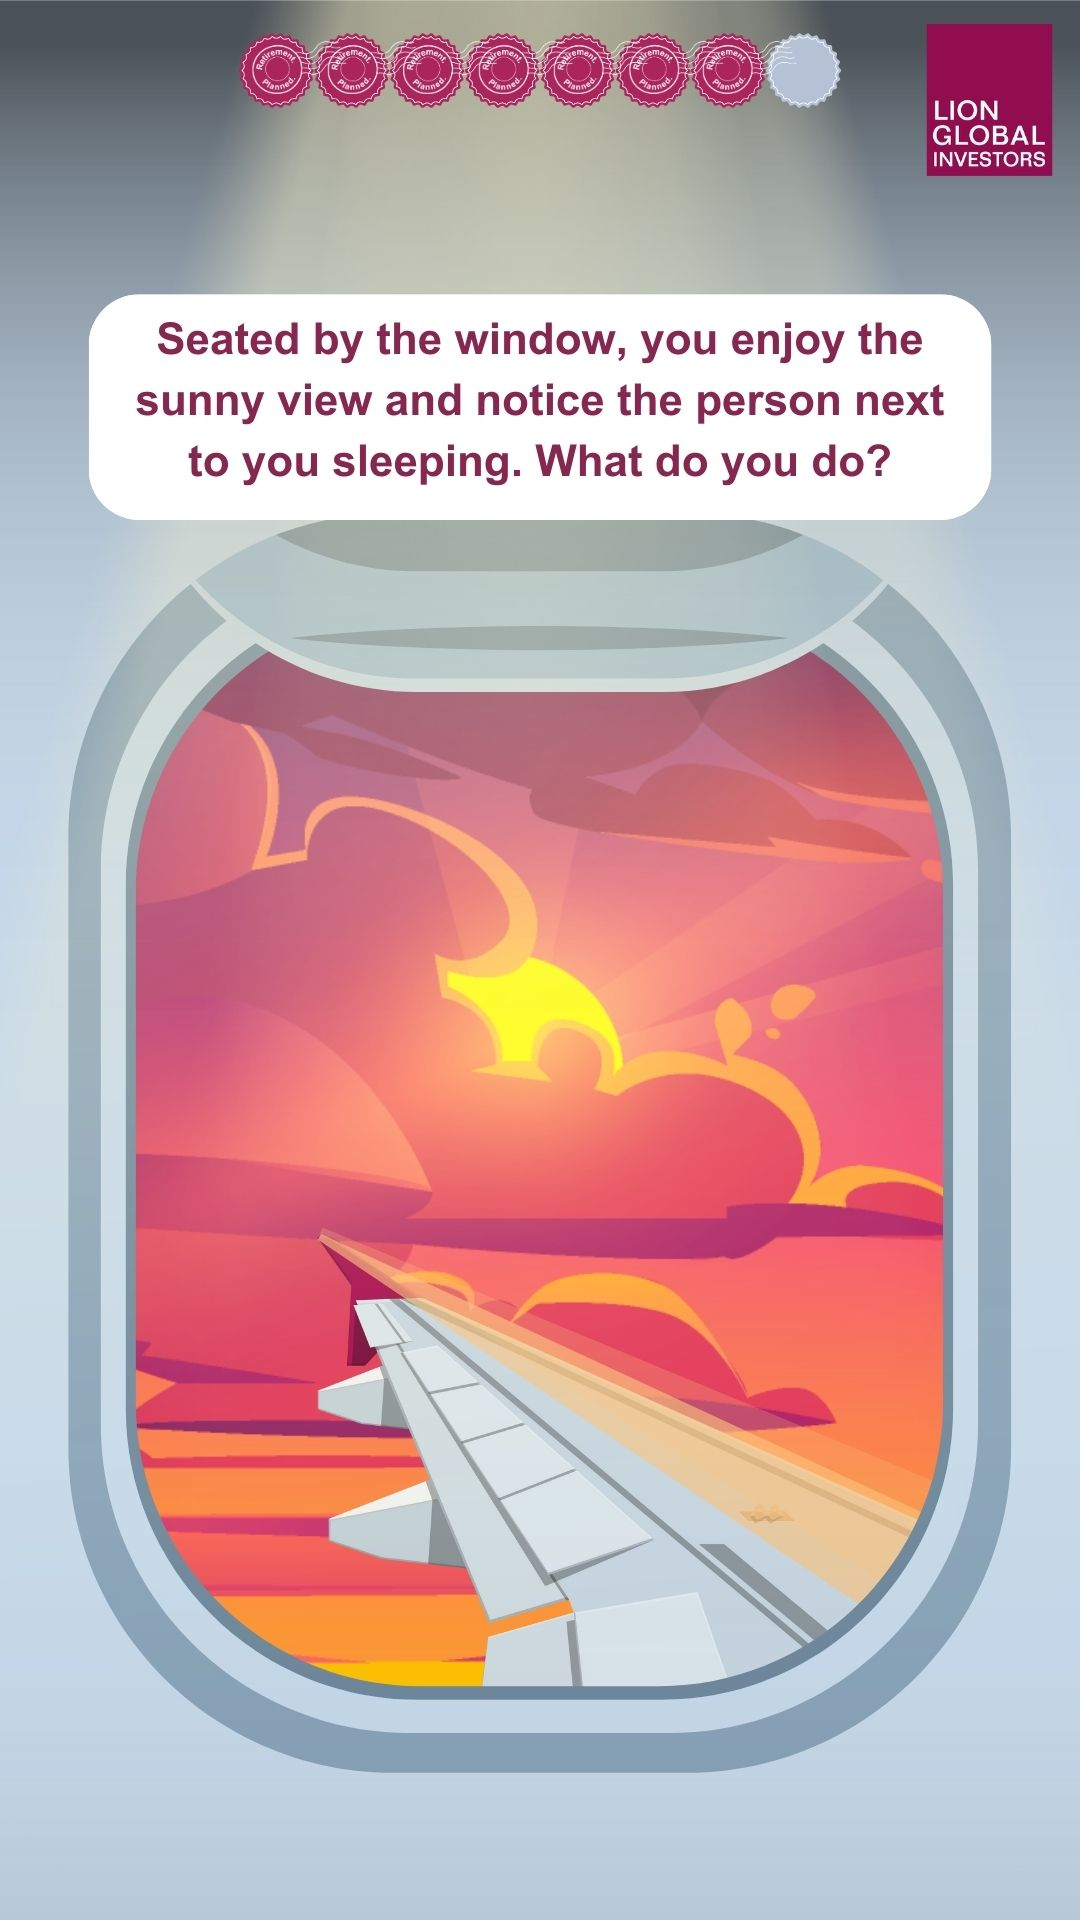
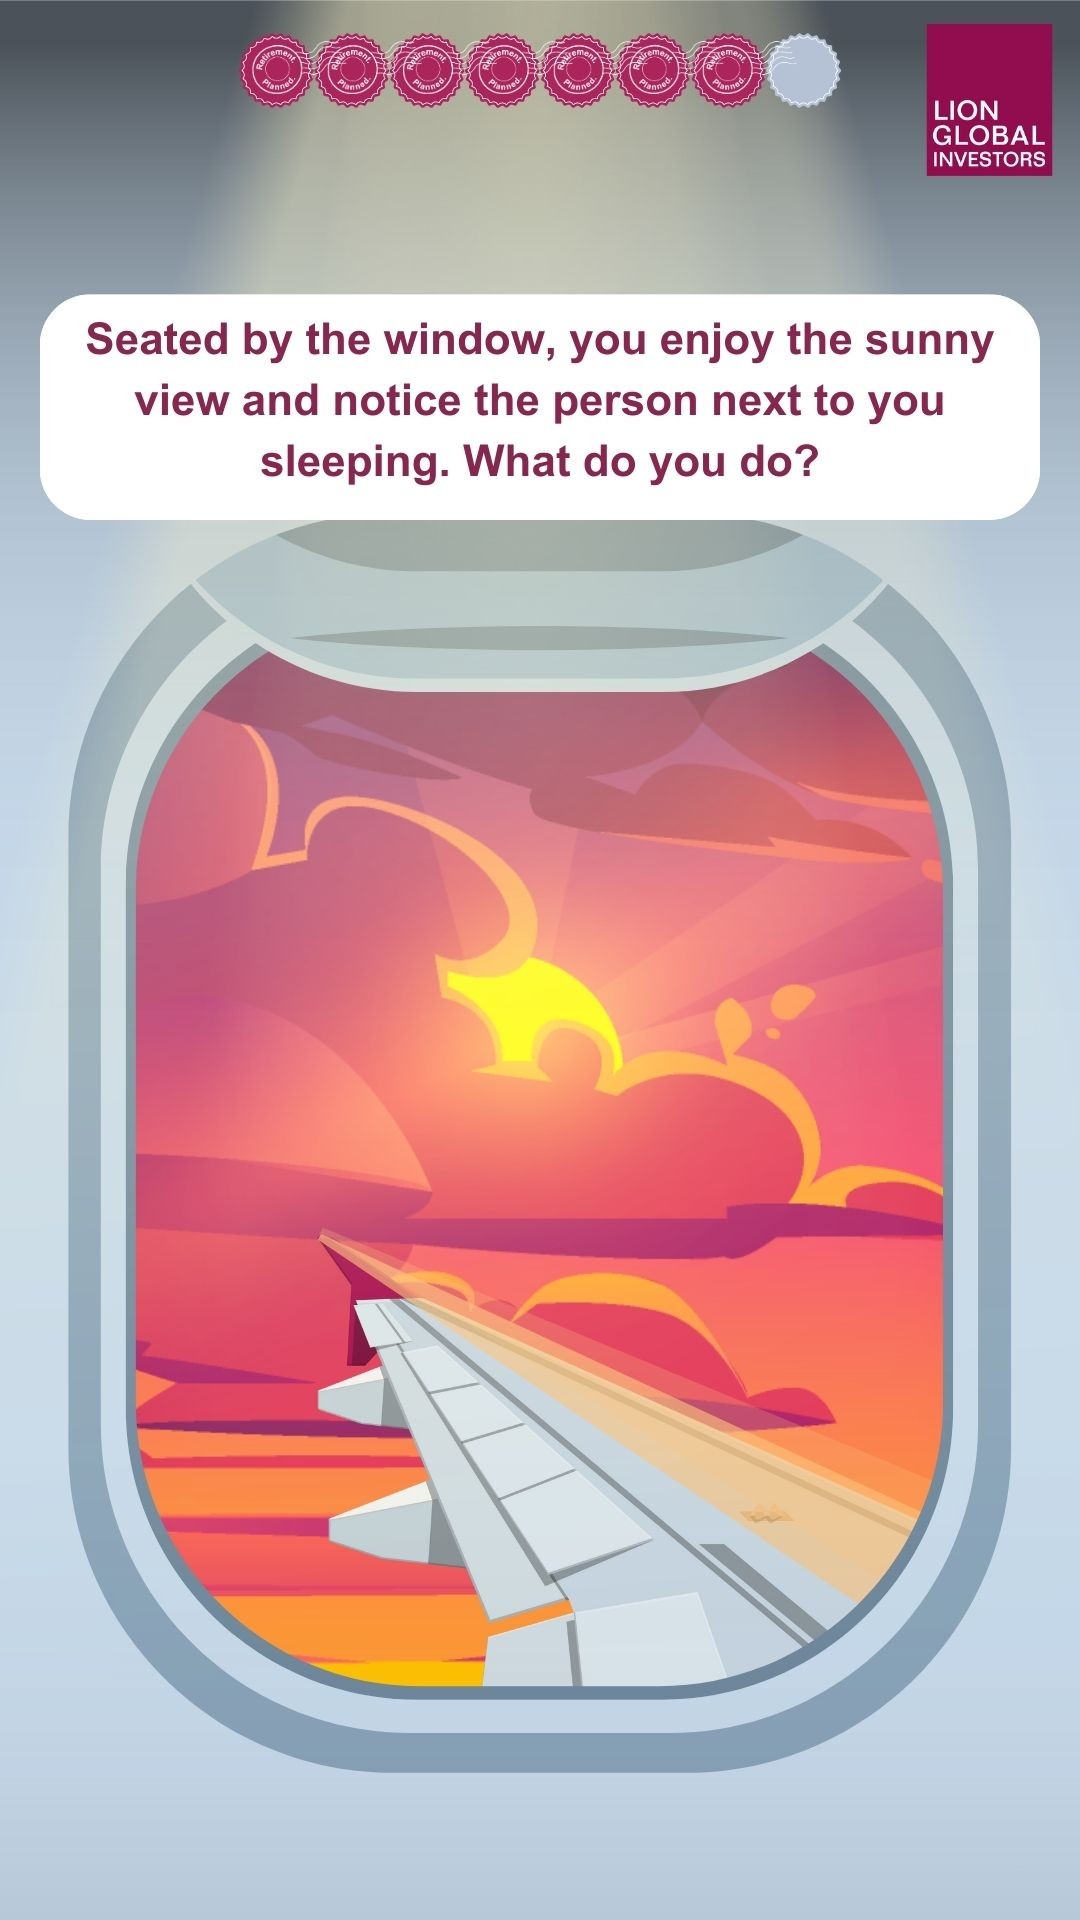
edited question images

Changed region(s): [[0.0306, 0.1562, 0.9778, 0.2812]]

diff --git a/result-capital-preservation.html b/result-capital-preservation.html
@@ -87,17 +87,6 @@
         currentState = 'results';
         // currentState = 'companyPage';
         break;
-
-      // case 'companyPage':
-
-      //   document.addEventListener('click', () => {
-      //     switch (currentState) {
-      //       case 'start-img':
-      //         window.open("https://www.lionglobalinvestors.com/en/fund-centre.html?&retire_goals=Capital%20Preservation");
-      //       break;
-      //       }
-      //     });
-      // break;
     }
   });
 
@@ -110,6 +99,16 @@
   document.getElementById("shareResult").addEventListener("click", async (event) => {
     event.preventDefault();
     const mainImage = document.querySelector('.ans-banner-img');
+    
+    // copy link to clipboard
+    const shareMessage = `https://lionglobalinvestors.github.io/Retirement/`;
+        navigator.clipboard.writeText(shareMessage).then(() => {
+            alert('Link copied to clipboard!');
+        }).catch(err => {
+            alert('Failed to copy link. Please try again.');
+        });
+
+    // sharing of image to application of choice
     if (mainImage && mainImage.getAttribute('src')) {
       const URL = mainImage.getAttribute('src');
       const response = await fetch(URL.toString());

diff --git a/style.css b/style.css
@@ -33,6 +33,8 @@
     /* aspect-ratio: 65/45; */
     object-fit: cover;
     object-position: center center;
+    transform: translate(0%, 0%);
+    /* margin: 0; */
 }
 
 .lets-fly-info {
@@ -696,6 +698,7 @@
         object-fit: cover;
         object-position: center center;
         transform: translate(0%, 0%);
+        margin: 0;
     }
 
     .lets-fly-button {
@@ -726,7 +729,7 @@
 
     .quiz-option label {
         padding: 12px;
-        font-size: 10px;
+        font-size: 11px;
         text-align: center;
     }
 
